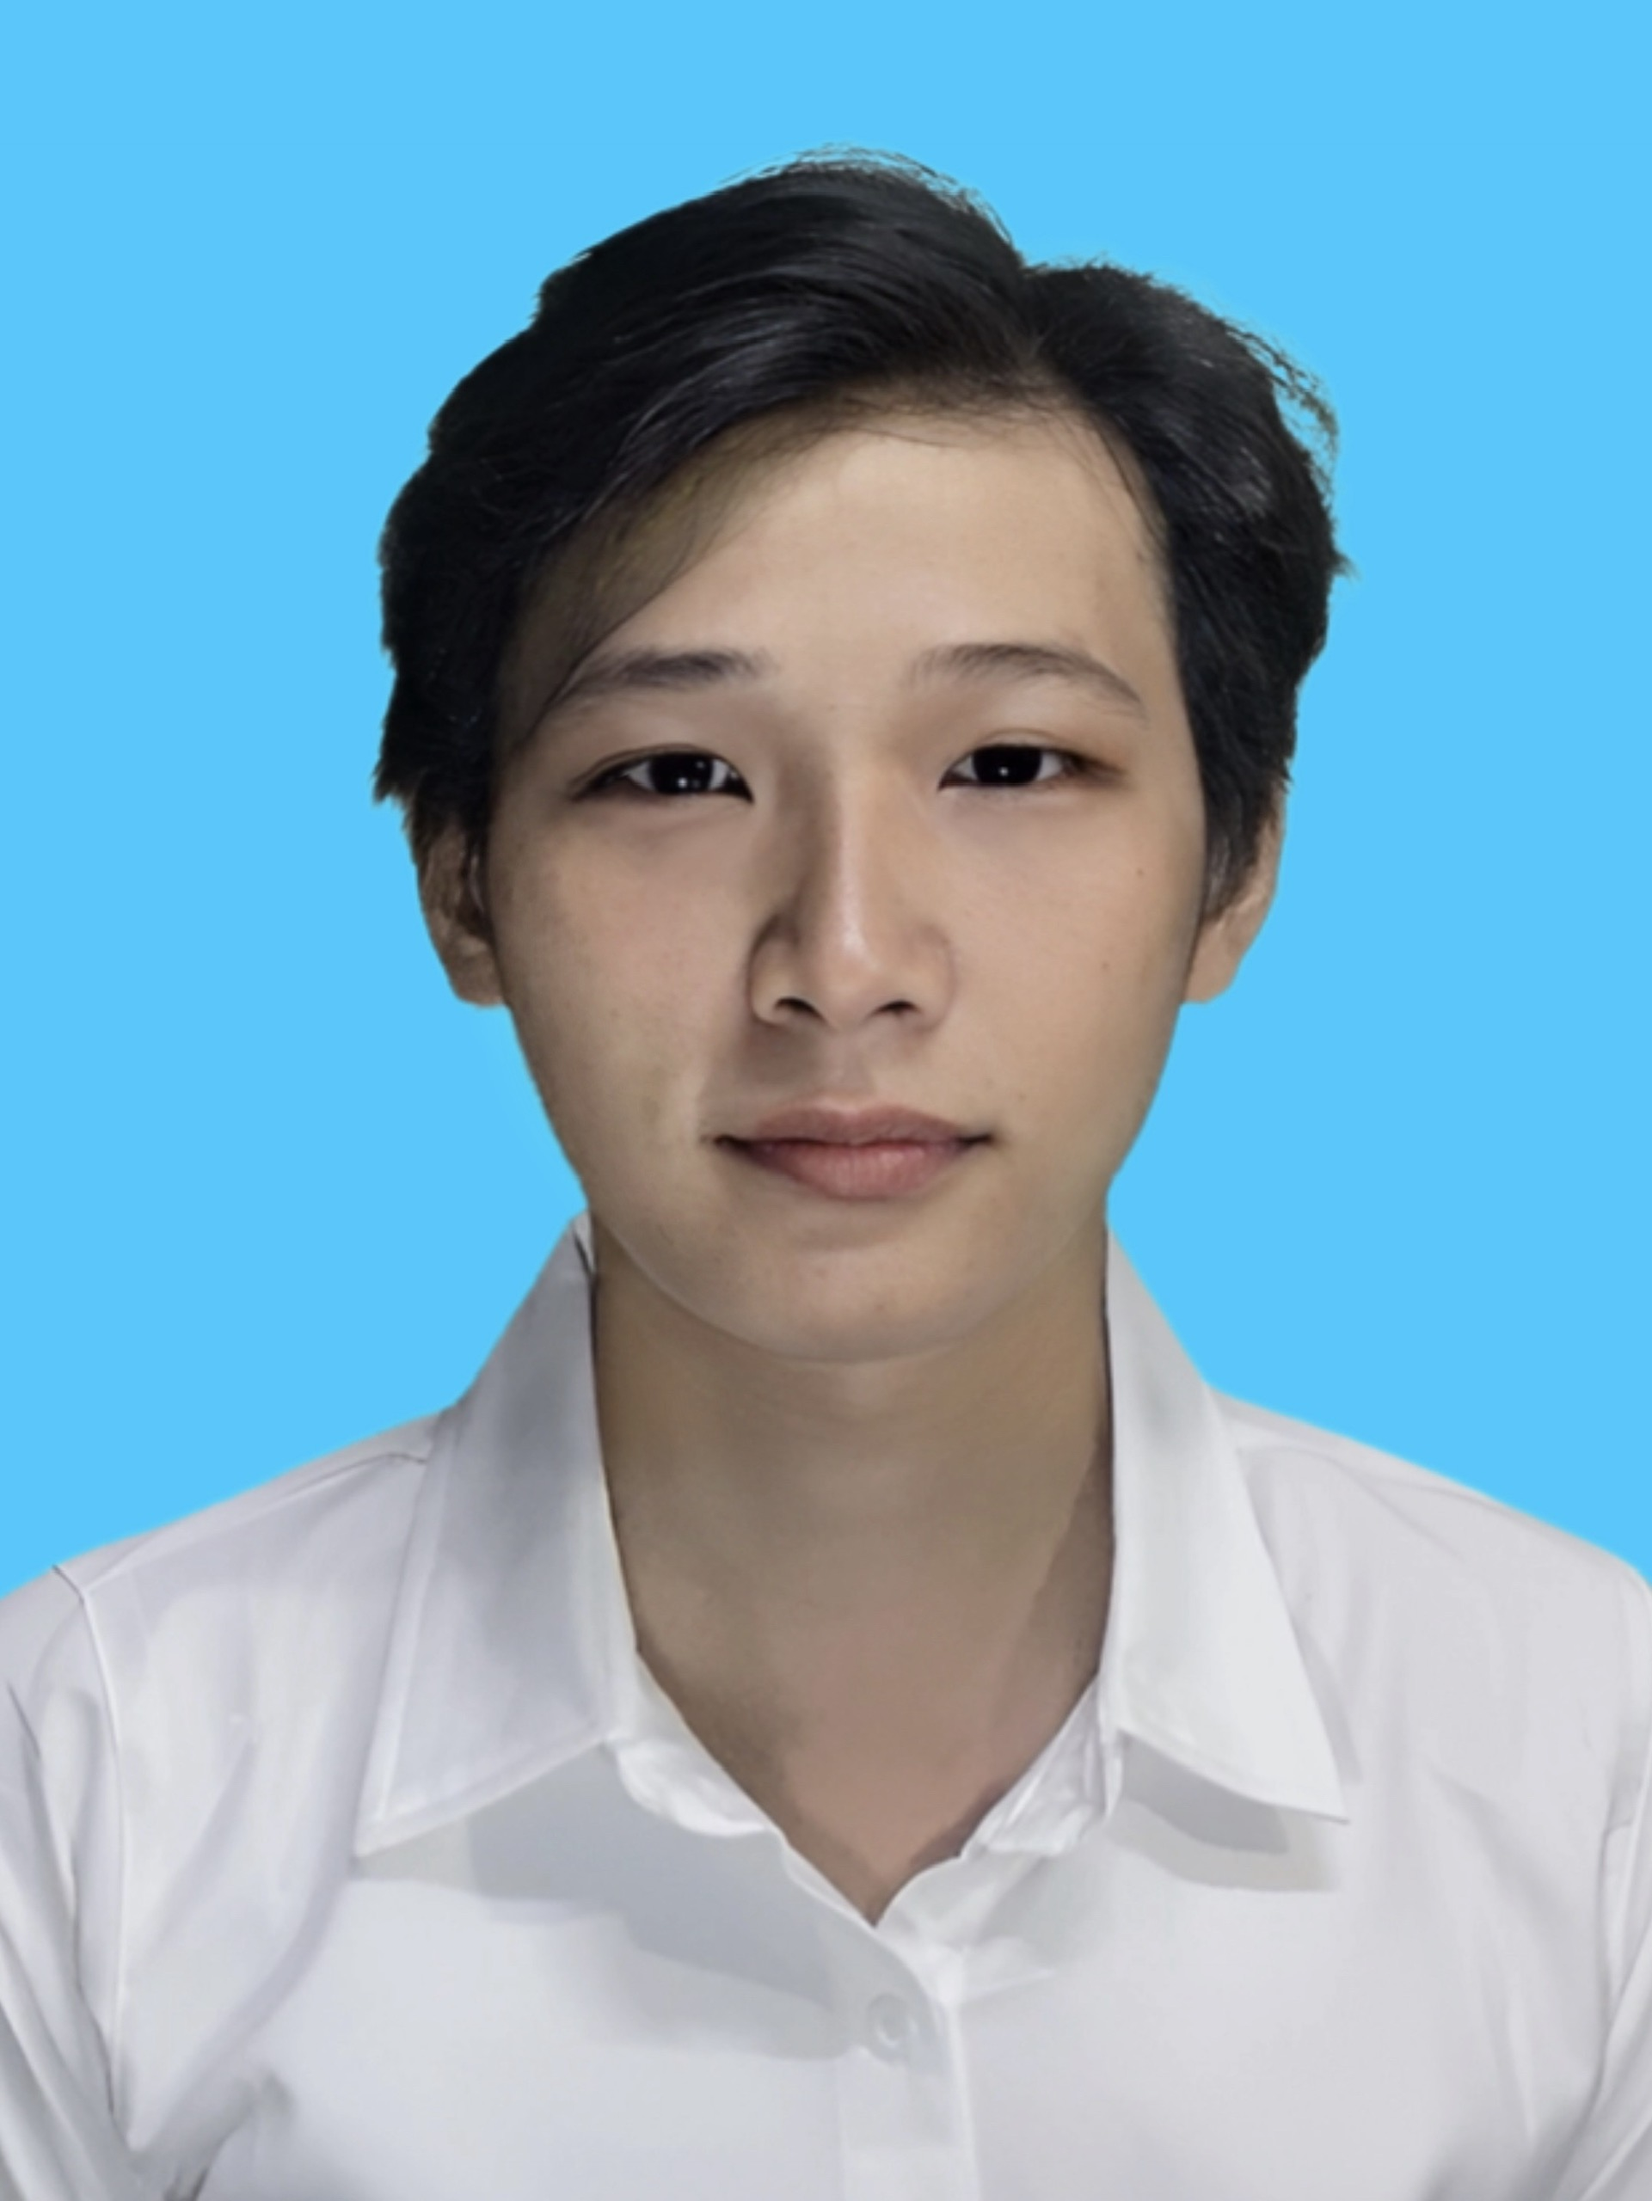
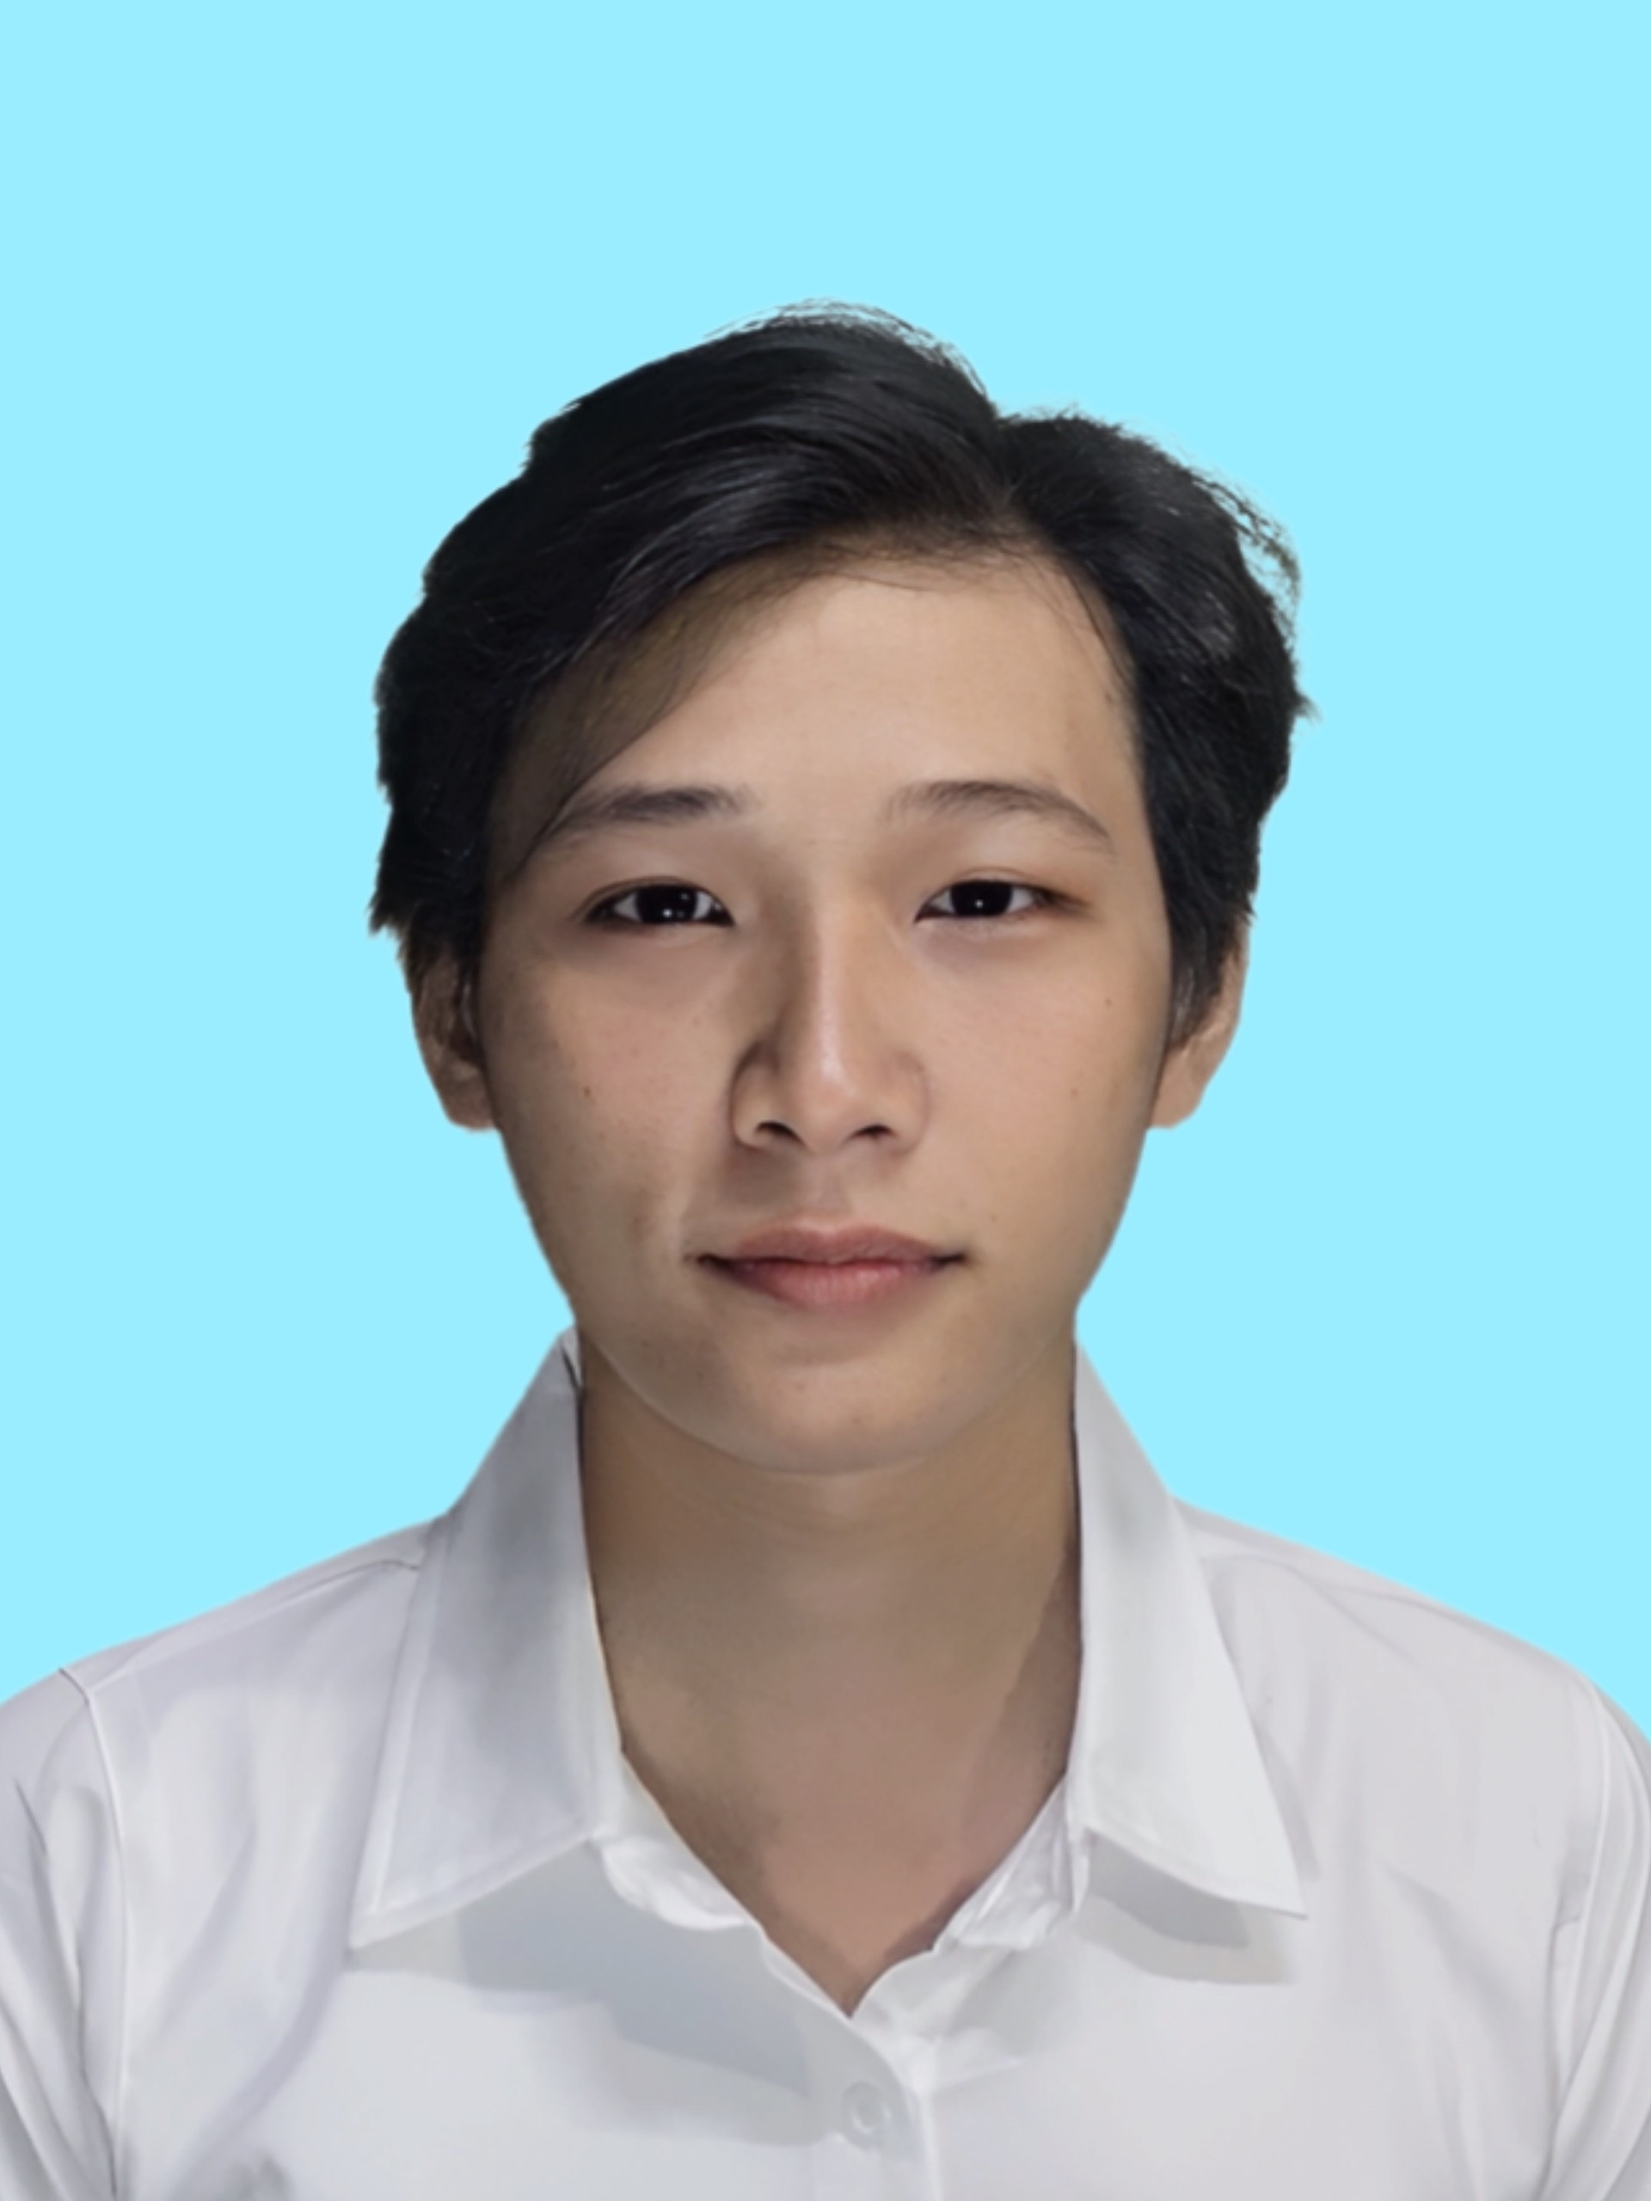
upload

diff --git a/index.css b/index.css
@@ -23,7 +23,7 @@ body{
     margin:  auto;
 }
 .main_left{
-    background-color: rgb(212, 222, 230);
+    background-color: #effcff;
     width: 50%;
 }
 .avt{

diff --git a/README.md b/README.md
@@ -1,0 +1,4 @@
+#Ho va ten: Nguyen Tan Trung
+# MSSV: 2011068762
+#Lop: 20DTHB5 - DH HUTECH
+#Facebook: https://web.facebook.com/trung.tan1308
